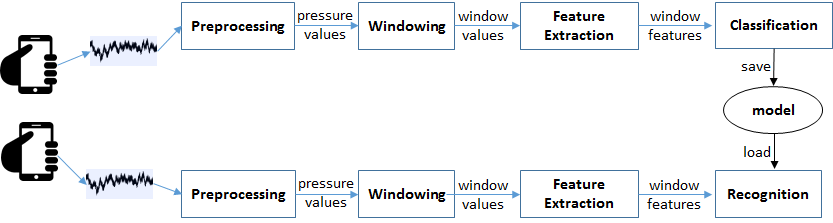
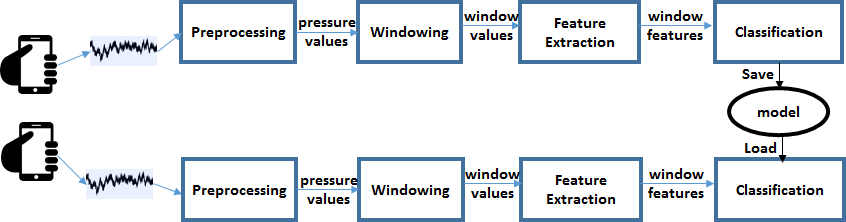
Block diagram/Tables/Shortening references

Changed region(s): [[0.0, 0.0, 1.0, 1.0], [0.0312, 0.1351, 0.0624, 0.2432], [0.0, 0.3514, 0.0624, 0.4324]]

diff --git a/Reports/Final Project/Report/eval.tex b/Reports/Final Project/Report/eval.tex
@@ -1,18 +1,17 @@
 \section{Evaluation}
-Our initial goal of having the grip classification being performed in real-time on the device was abandoned due to time constraints. Therefore we focused our evaluation criteria on how accurately the grip patterns could be identified. While training the model, we performed a 10-fold cross-validation that provides insight into the model's performance. 
+Our initial goal of having the grip classification being performed in real-time on the device was abandoned due to time constraints. Therefore we focused our evaluation criteria on how accurately the grip patterns could be identified. While training the model, we performed a 10-fold cross-validation that provides insight into the model's performance.
 
 \subsection{Model Evaluation}
-Table \ref{tbl-Grip Model Eval} demonstrates shows the performance of the model when trained with two datasets, and two algorithms - SMO and BayesNet. As expected, the prediction accuracy decreases when a larger dataset is used. This is due to the variability of the manner in which the gestures are performed. Conversely, this should also result in a more robust model that can accurately predict a gesture with small variations. 
+Table \ref{tbl-Grip Model Eval} demonstrates shows the performance of the model when trained with two datasets, and two algorithms - SMO and BayesNet. As expected, the prediction accuracy decreases when a larger dataset is used. This is due to the variability of the manner in which the gestures are performed. Conversely, this should also result in a more robust model that can accurately predict a gesture with small variations.
 
 \begin{table}[!t]
 \caption{Grip model cross validation accuracy with multiple datasets}
 \label{tbl-Grip Model Eval}
-\begin{tabular}{lllllll}
-\hline
-        & \multicolumn{3}{c}{initial dataset} & \multicolumn{3}{c}{expanded dataset} \\ \hline \hline
-        & count     & SVM        & Bayes      & count     & SVM        & Bayes    \\ \hline
-None    & 13751     & 99.4\%     & 98.8\%     & 20773     & 99.6\%     & 99.1\%      \\ \hline
-Squeeze & 871       & 97.0\%     & 99.7\%     & 871       & 95.5\%     & 97.5\%      \\ \hline
+\begin{tabular}{|l||l|l|l|l|l|l|}\hline
+        & \multicolumn{3}{c|}{initial dataset} & \multicolumn{3}{c|}{expanded dataset} \\ \hline \hline
+        & count     & SVM        & Bayes      & count     & SVM        & Bayes    \\
+None    & 13751     & 99.4\%     & 98.8\%     & 20773     & 99.6\%     & 99.1\%      \\
+Squeeze & 871       & 97.0\%     & 99.7\%     & 871       & 95.5\%     & 97.5\%      \\
 Reach   & 679       & 97.9\%     & 99.3\%     & 1361      & 94.0\%     & 95.6\%    \\ \hline
 \end{tabular}
 \end{table}
@@ -22,18 +21,18 @@ It was determined that the best performance achieved by a model for the expanded
 \begin{table}[!t]
 \caption{J48 Grip model cross-validation Confusion Matrix}
 \label{tbl-Grip Model J48}
-\begin{tabular}{|l|l|l|l|l|l|}
+\begin{tabular}{|l||l|l|l|l|l|}
 \hline
         & total & None  & Squeeze & Reach & Correct \\ \hline \hline
-None    & 20773 & 20729 & 9       & 35    & 99.8\%  \\ \hline
-Squeeze & 871   & 9     & 855     & 7     & 98.2\%  \\ \hline
+None    & 20773 & 20729 & 9       & 35    & 99.8\%  \\
+Squeeze & 871   & 9     & 855     & 7     & 98.2\%  \\
 Reach   & 1361  & 16    & 4       & 1341  & 98.5\%  \\ \hline
 \end{tabular}
 \end{table}
 
 
 \subsection{Off-line Evaluation}
-We decided to use the J48 tree grip detection model since it produced the best cross-validation results. Since we are not performing real-time evaluation, we first record our evaluation dataset in a manner similar to the training dataset - generating a log of the sensor values as the user performs the squeeze and reach gestures. This dataset is then parsed to generate the sliding windows and extract the features. 
+We decided to use the J48 tree grip detection model since it produced the best cross-validation results. Since we are not performing real-time evaluation, we first record our evaluation dataset in a manner similar to the training dataset - generating a log of the sensor values as the user performs the squeeze and reach gestures. This dataset is then parsed to generate the sliding windows and extract the features.
 \par
 We wrote a simple Java program running on a laptop that would load the J48 grip classification model, read the features of each window and ask the model to classify it as None, Squeeze or Reach gesture. Without looking at the predictions for each window, we classified each window manually. Figure \ref{fig:reach_eval} and Figure \ref{fig:squeeze_eval} displays a comparison of the predicted and actual window classifications for Reach and Squeeze grips, respectively. The average difference between the classifications was 2\% on average, with a maximum of 6\%, for both types of gestures.
 

diff --git a/Reports/Final Project/Report/relate.tex b/Reports/Final Project/Report/relate.tex
@@ -3,4 +3,6 @@ Many researchers have suggested that the devices should be intelligent enough to
 \par
 Many researchers also studied hand posture on devices to make them more intelligent and interactive to the situations caused by posture. For instance, Wobbrock \emph{et al.} \cite{Wobbrock:2008:PHP} studied different hand postures and measured the finger performance with mobile devices. Holz \emph{et al.} \cite{Holz:2011:UT} have evaluated systematic error in selecting the target with finger touch. Researchers \cite{Hinckley:2011:SST,Weberg:2001:PBP,Karlson:2005:ALT} also found that mobile interfaces are designed for double-handed operation although users may prefer to use one single hand. Karlson \emph{et al.} \cite{Karlson:2006:usm} studied those interfaces and evaluated the performance of thumb mobility on those interfaces. Azenkot and Zhai \cite{Azenkot:2012:TBD} showed that different hand postures lead to different touch patterns, thus, effect the performance of typing on mobile devices. AppLens and LaunchTiles \cite{Karlson:2005:ALT} designed interfaces based on different thumb gestures for one handed interactions.
 \par
-Fitzmaurice \emph{et al.} \cite{Fitzmaurice:1995:BLF} introduced the idea of ``graspable user interfaces'' where you can control the interface by interacting with a physical object. SqueezeBlock \cite{Gupta:2010:SUV} is an implementation of this idea in which it provides haptic feedback according to the level of ``squashiness'' on a physical object. Wimmer \emph{et al.} \cite{Wimmer:2010:FGS} deployed optical fibers into a surface of device to detect grasping pressure. Harrison \emph{et al.} \cite{harrison:1998:squeeze} used FSRs for squeezing pressure detection. Strachan and Murray-Smith \cite{Strachan:2004:MTI}, used muscle tremor as a form of input to detect pressure on devices by leveraging accelerometer logs. 
+Fitzmaurice \emph{et al.} \cite{Fitzmaurice:1995:BLF} introduced the idea of ``graspable user interfaces'' where you can control the interface by interacting with a physical object. SqueezeBlock \cite{Gupta:2010:SUV} is an implementation of this idea in which it provides haptic feedback according to the level of ``squashiness'' on a physical object. Wimmer \emph{et al.} \cite{Wimmer:2010:FGS} deployed optical fibers into a surface of device to detect grasping pressure. Harrison \emph{et al.} \cite{harrison:1998:squeeze} used FSRs for squeezing pressure detection. Strachan and Murray-Smith \cite{Strachan:2004:MTI}, used muscle tremor as a form of input to detect pressure on devices by leveraging accelerometer logs.
+\par
+REACH differs from previous works in that it uses the hardware implementation of force sensors to study users grip patterns on mobile phones. This opens the possibility to detect the user's activity from the pressure he applies on the device in realtime manner. 

diff --git a/Reports/Final Project/Report/overall_design.tex b/Reports/Final Project/Report/overall_design.tex
@@ -1,7 +1,9 @@
 \section{Overall Design of REACH}
 
 \begin{figure}[h]
-\includegraphics[width=.45\textwidth]{Block_Design.png}
+\fbox{
+\includegraphics[width=.45\textwidth]{Block_Design1.png}
+}
 \caption{Design of REACH}
 \label{fig:Design of REACH}
 \end{figure}
